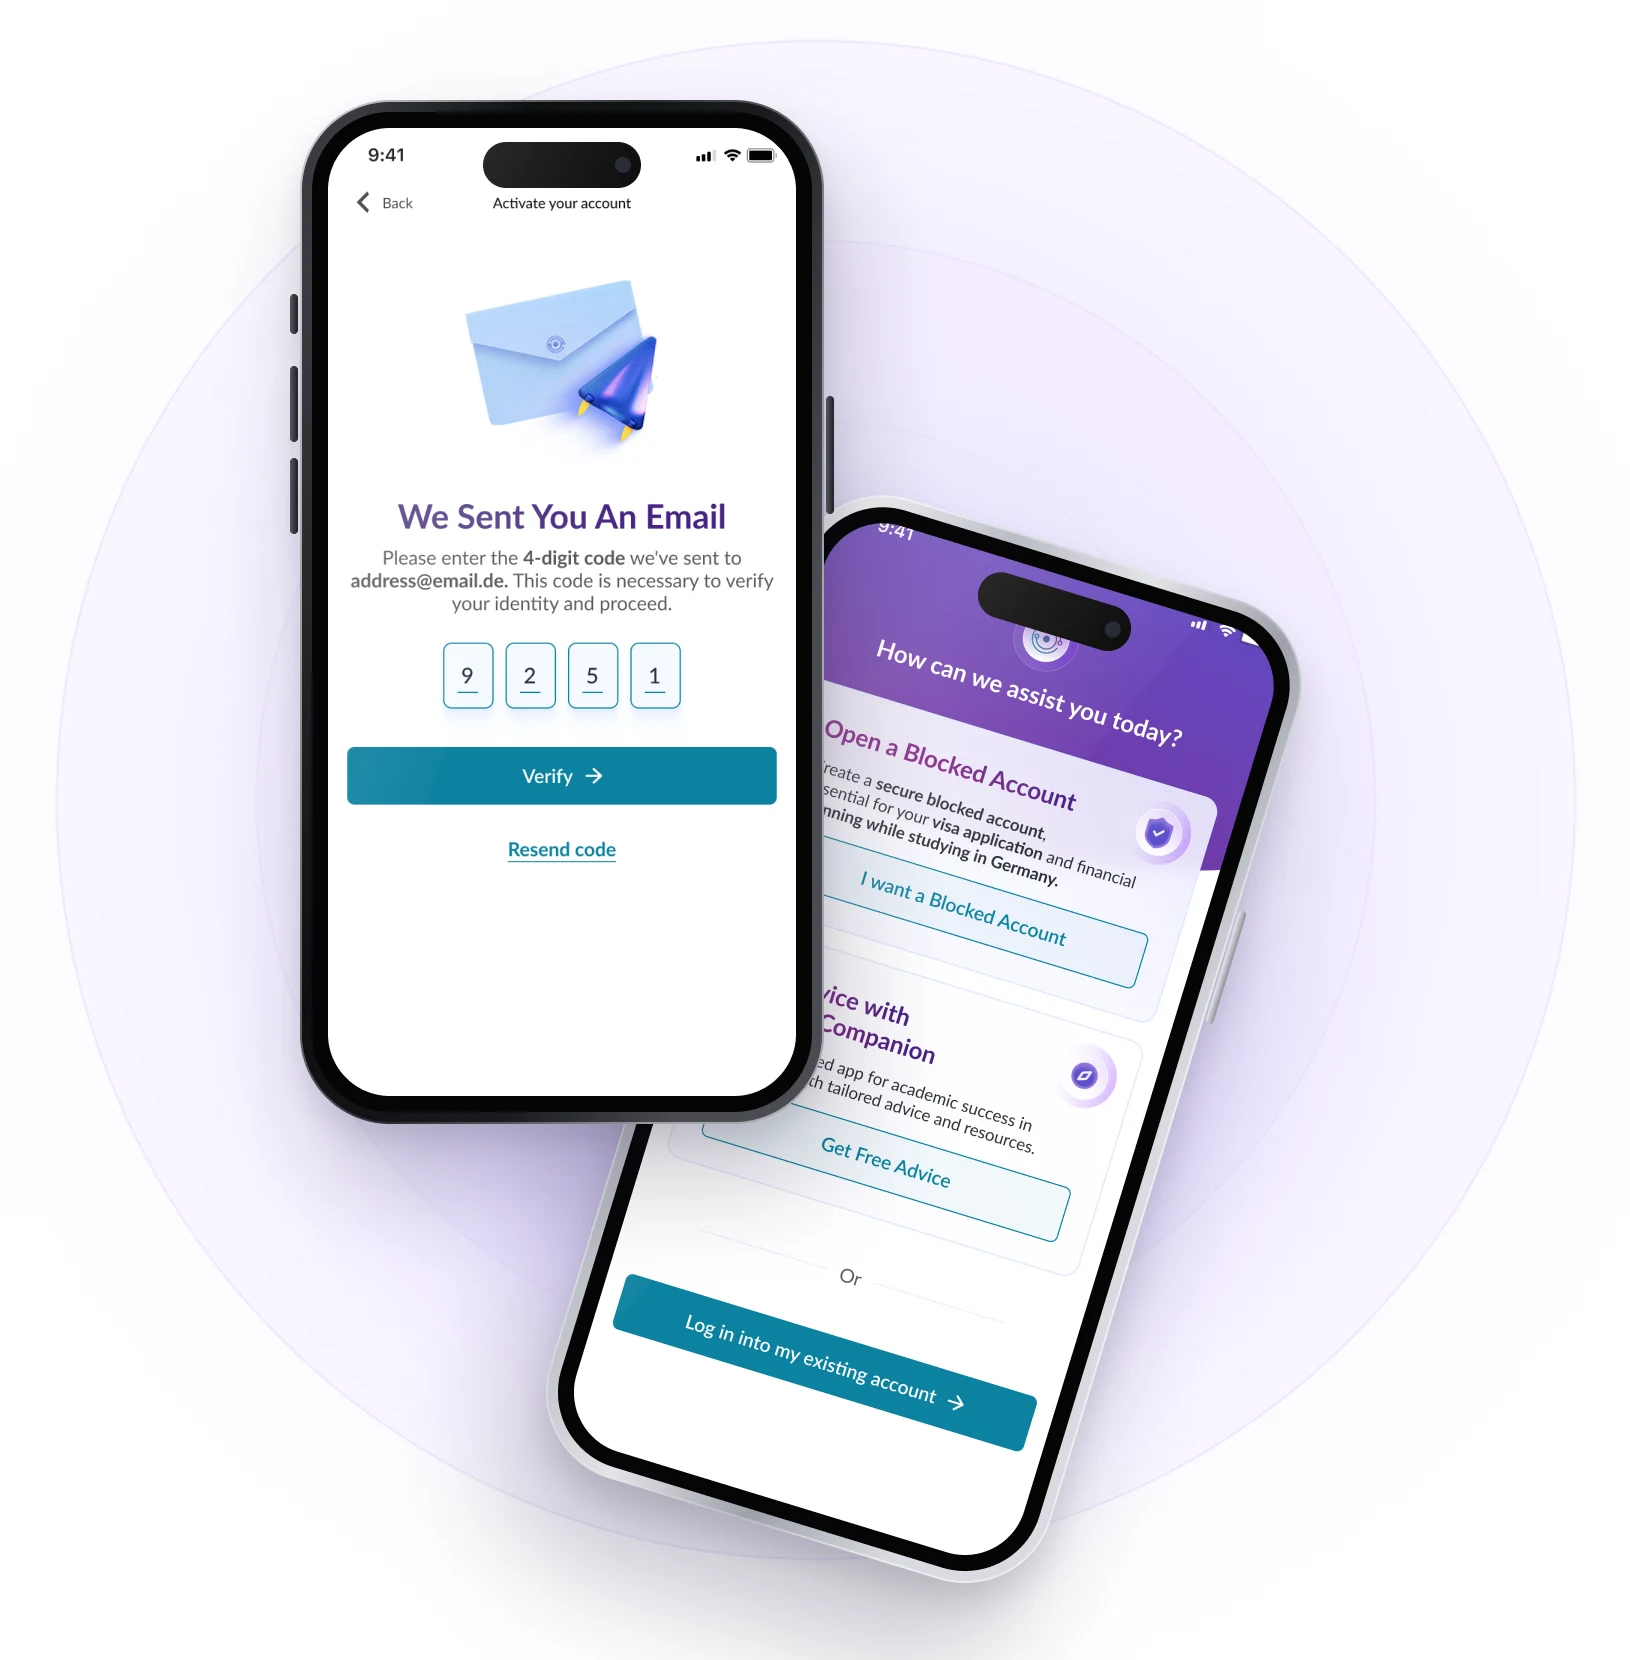
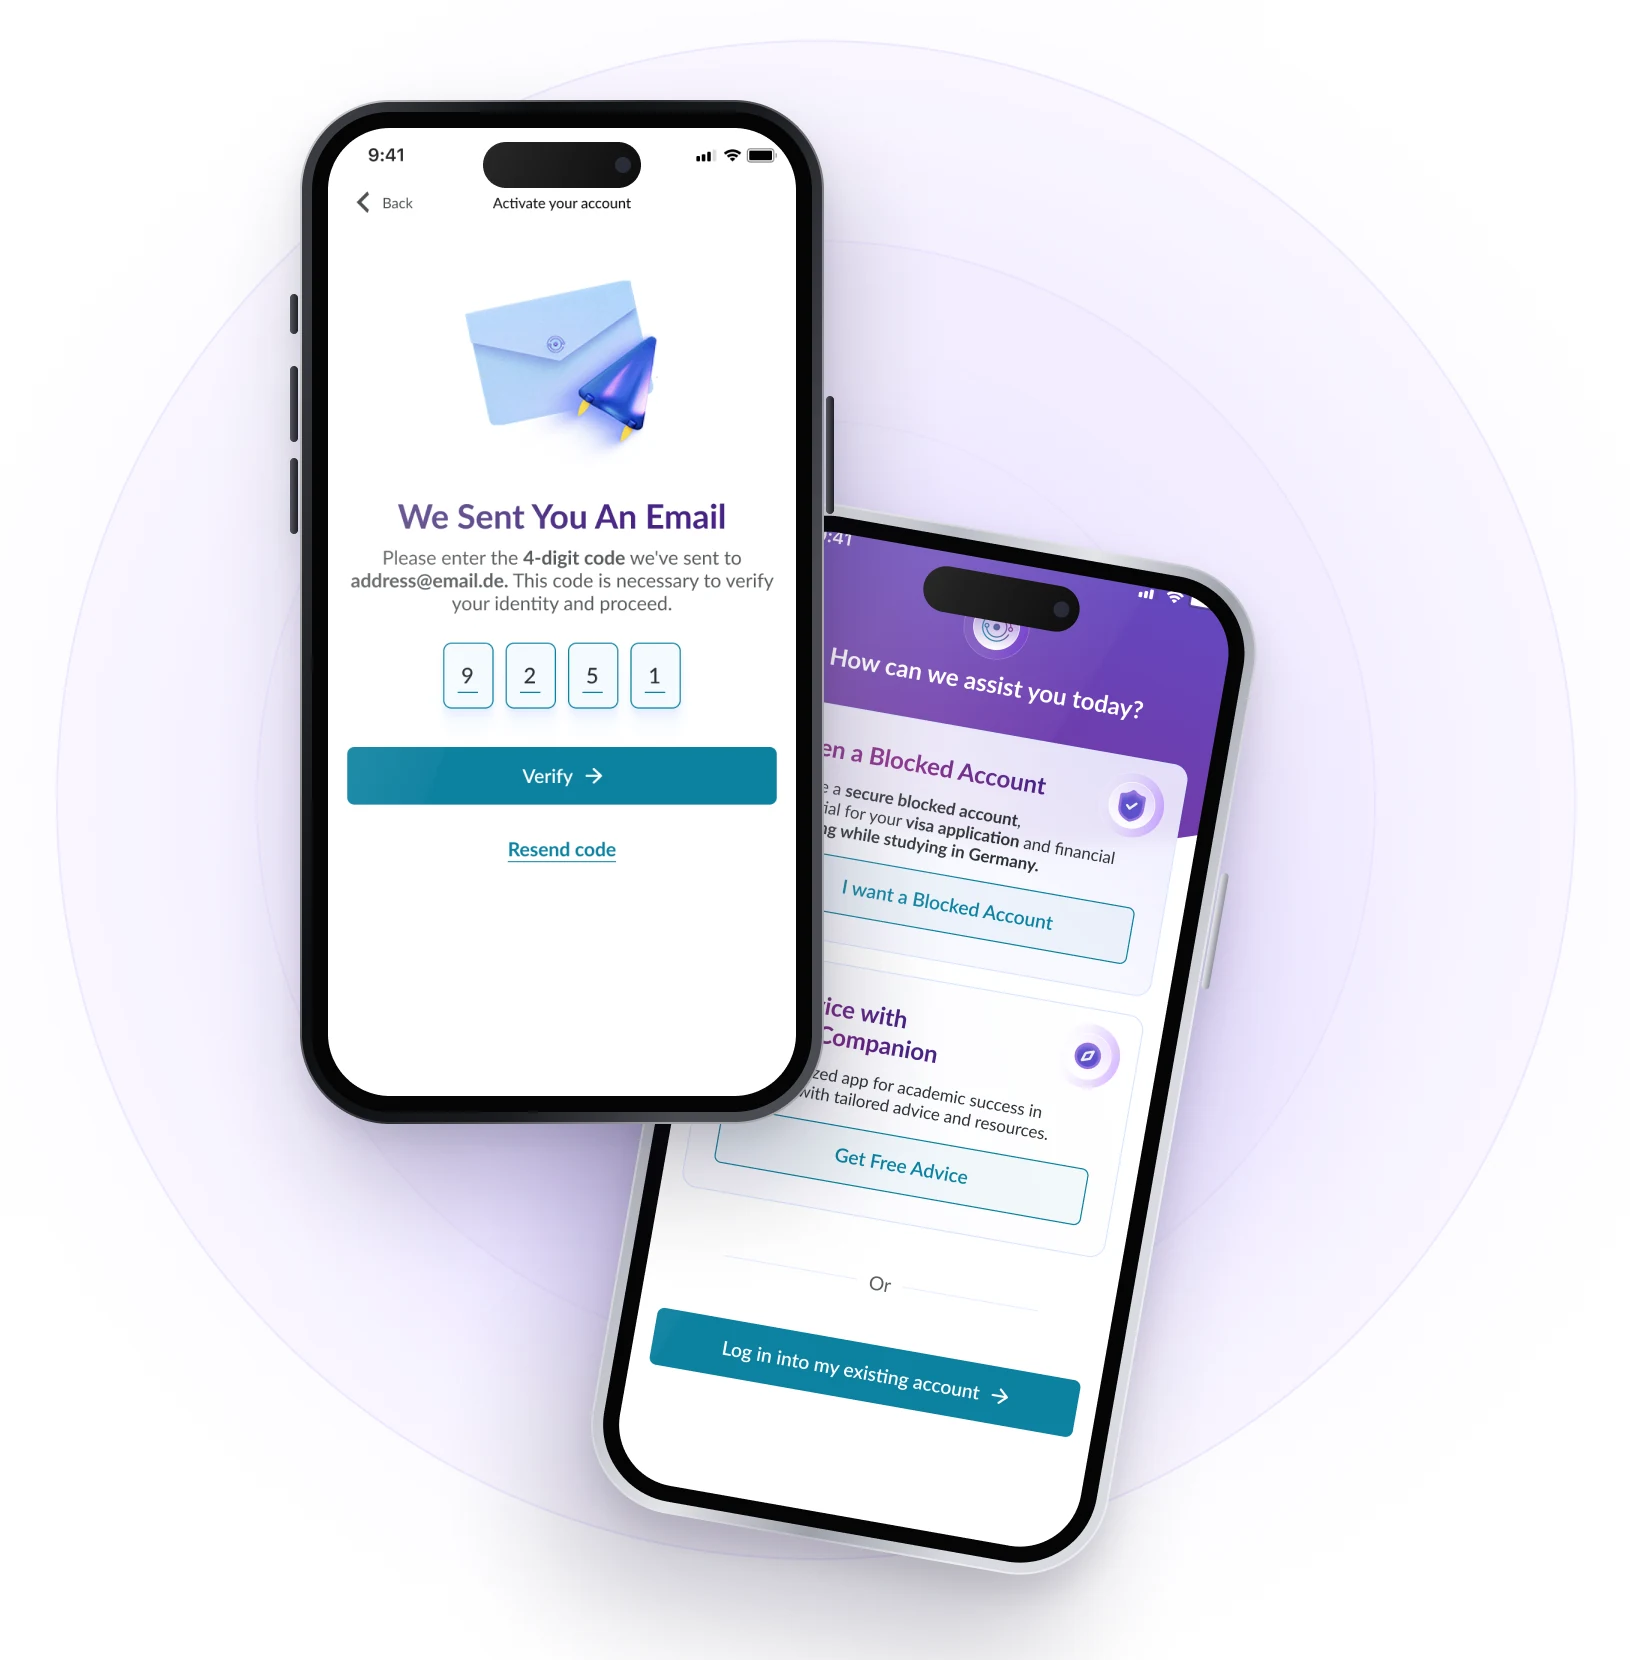
Login case: straighten right phone in mobile app section
Claude-Session: https://claude.ai/code/session_011pq2ADq6rPTZrVGSK3qx6v

Changed region(s): [[0.3374, 0.3072, 0.7975, 0.9524]]

diff --git a/cases/login.html b/cases/login.html
@@ -266,7 +266,7 @@
         <h2 class="lg-h2">Мобильное <em>приложение</em></h2>
         <p class="lg-sub">Те же сценарии в нативном приложении: выбор услуги для нового пользователя и подтверждение аккаунта кодом из письма с повторной отправкой.</p>
         <div class="lg-mobile__img" data-rv><div data-par="0.08">
-          <img src="../assets/img/login/mobile-app.webp" width="1630" height="1660" alt="Два телефона: экран ввода кода из письма и экран выбора услуги" loading="lazy"></div>
+          <img src="../assets/img/login/mobile-app.webp?v=2" width="1630" height="1660" alt="Два телефона: экран ввода кода из письма и экран выбора услуги" loading="lazy"></div>
         </div>
       </div>
     </section>
